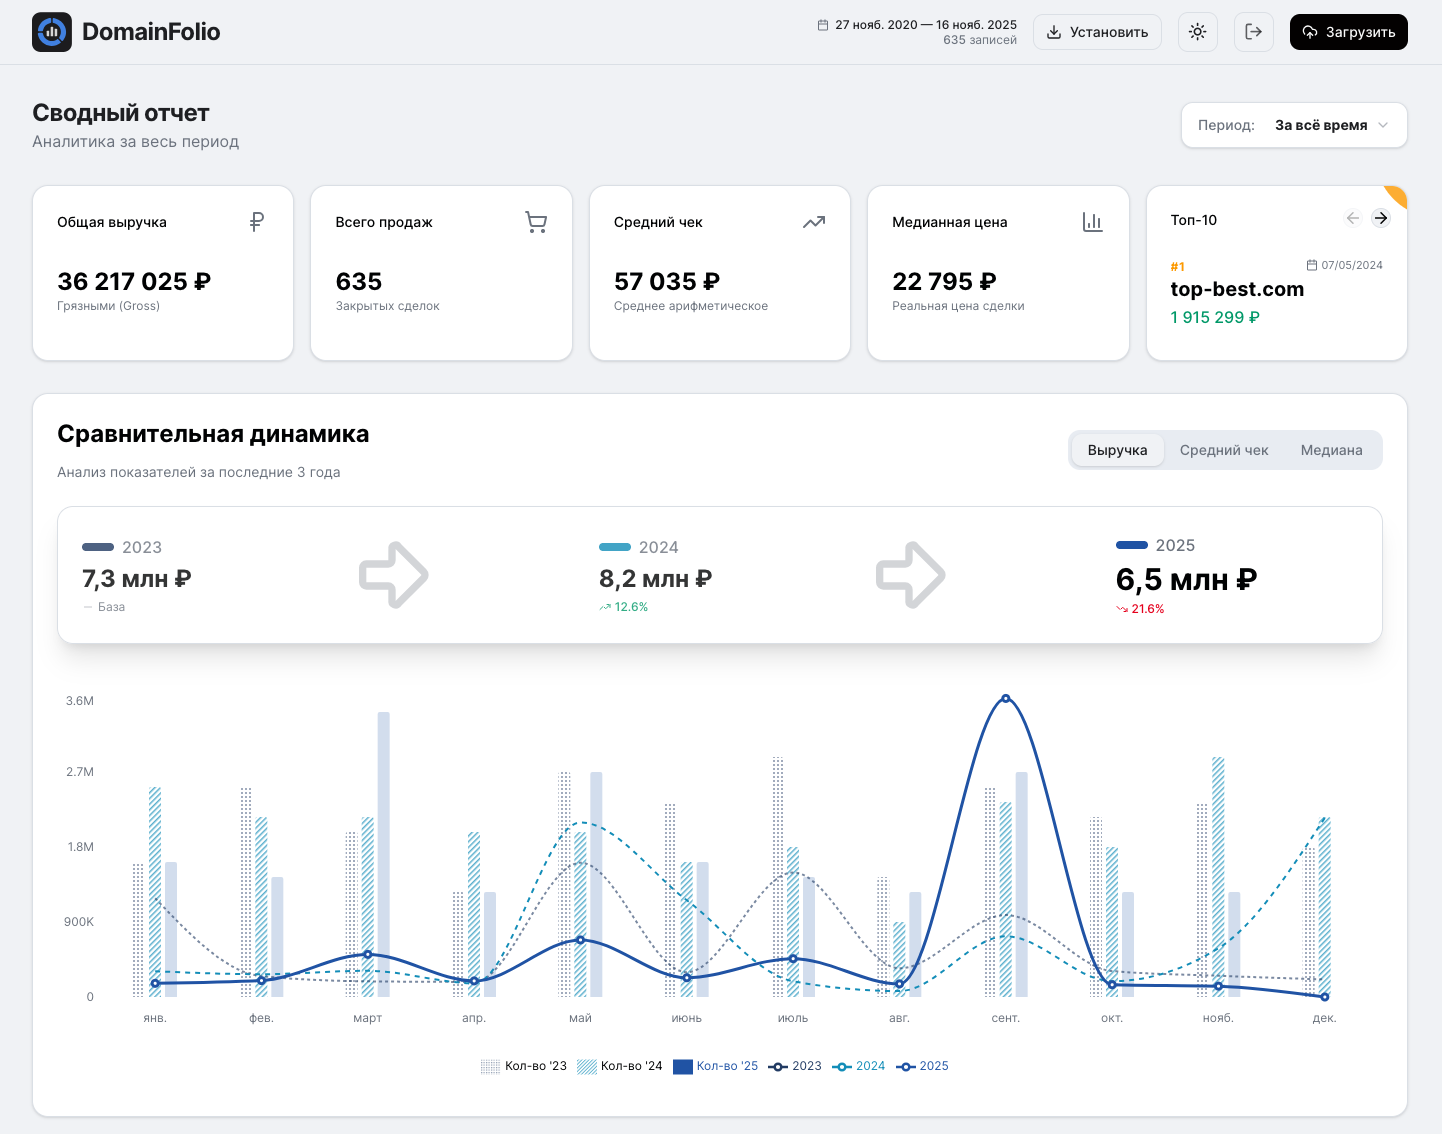
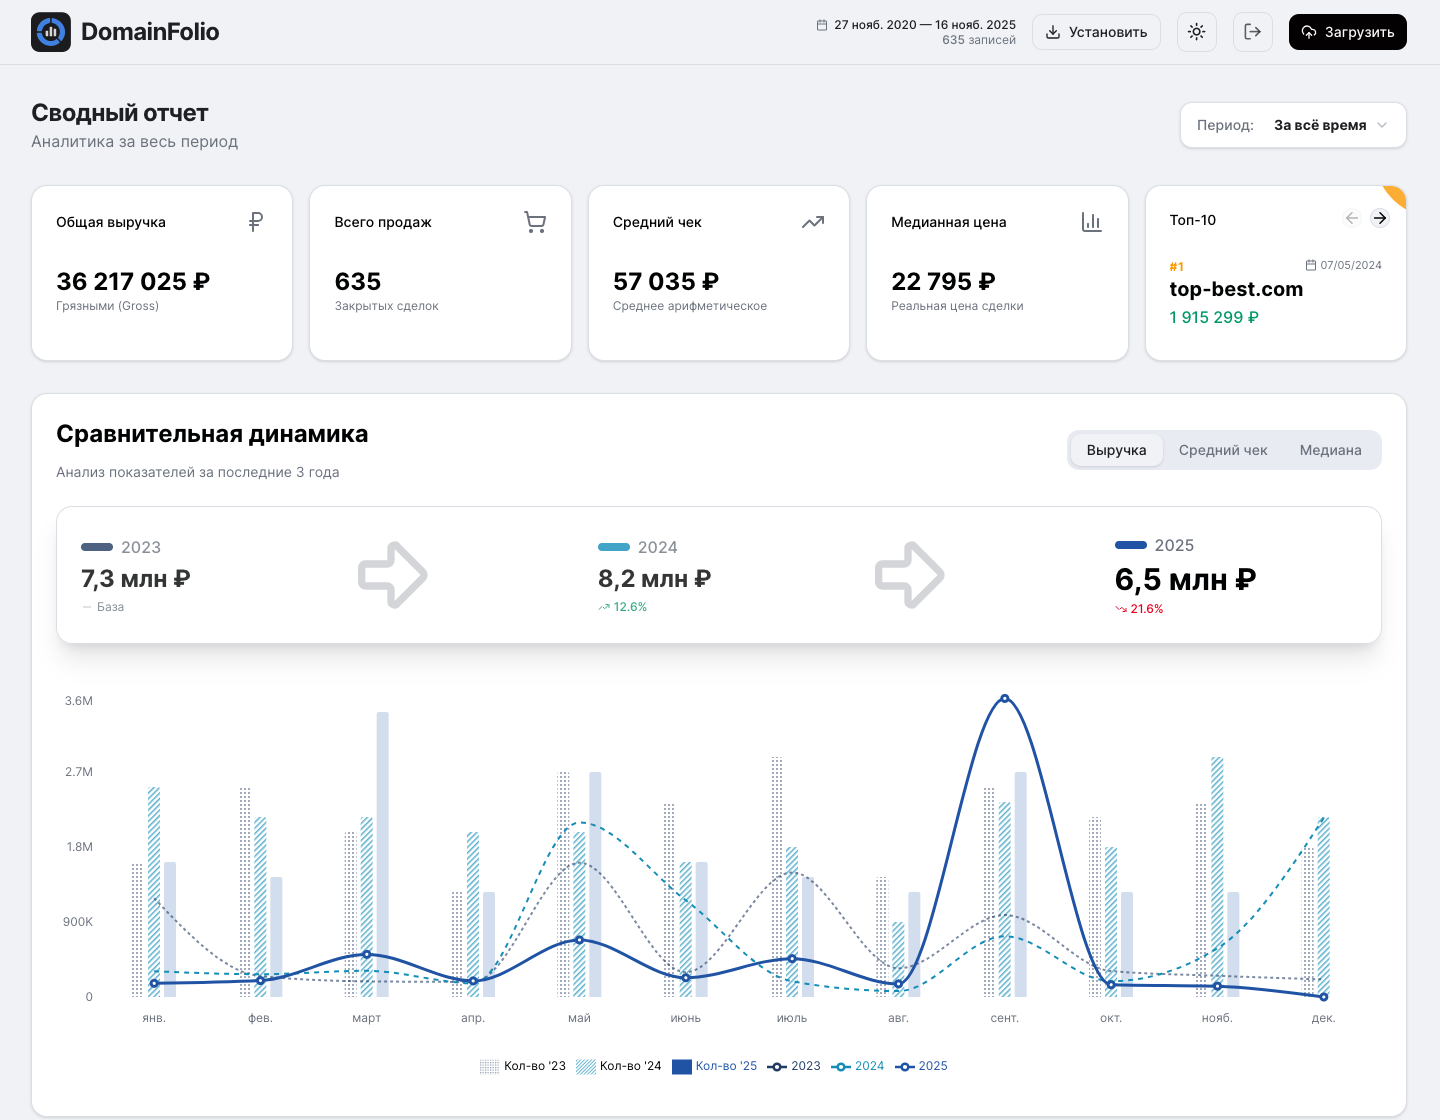
Updates

diff --git a/sw.js b/sw.js
@@ -1,1 +1,1 @@
-if(!self.define){let e,i={};const s=(s,n)=>(s=new URL(s+".js",n).href,i[s]||new Promise(i=>{if("document"in self){const e=document.createElement("script");e.src=s,e.onload=i,document.head.appendChild(e)}else e=s,importScripts(s),i()}).then(()=>{let e=i[s];if(!e)throw new Error(`Module ${s} didn’t register its module`);return e}));self.define=(n,r)=>{const t=e||("document"in self?document.currentScript.src:"")||location.href;if(i[t])return;let d={};const o=e=>s(e,t),l={module:{uri:t},exports:d,require:o};i[t]=Promise.all(n.map(e=>l[e]||o(e))).then(e=>(r(...e),d))}}define(["./workbox-3105ea8d"],function(e){"use strict";self.skipWaiting(),e.clientsClaim(),e.precacheAndRoute([{url:"registerSW.js",revision:"1872c500de691dce40960bb85481de07"},{url:"index.html",revision:"78348f6dc84111a133f61bd47155a29d"},{url:"assets/index-D_AHpvCI.js",revision:null},{url:"assets/index-CEMJJm86.css",revision:null},{url:"pwa-192x192.png",revision:"413a597d431d7da0a6a8e3923f9362d5"},{url:"pwa-512x512-mask.png",revision:"faebcae47e16541a4d9a32db796c7542"},{url:"pwa-512x512.png",revision:"19b264d6b0643e1af9dcc97e4a56a93b"},{url:"manifest.webmanifest",revision:"ae7fa2ebfa52d1366cfc127eb6858913"}],{}),e.cleanupOutdatedCaches(),e.registerRoute(new e.NavigationRoute(e.createHandlerBoundToURL("index.html")))});
+if(!self.define){let e,i={};const s=(s,n)=>(s=new URL(s+".js",n).href,i[s]||new Promise(i=>{if("document"in self){const e=document.createElement("script");e.src=s,e.onload=i,document.head.appendChild(e)}else e=s,importScripts(s),i()}).then(()=>{let e=i[s];if(!e)throw new Error(`Module ${s} didn’t register its module`);return e}));self.define=(n,r)=>{const t=e||("document"in self?document.currentScript.src:"")||location.href;if(i[t])return;let d={};const o=e=>s(e,t),a={module:{uri:t},exports:d,require:o};i[t]=Promise.all(n.map(e=>a[e]||o(e))).then(e=>(r(...e),d))}}define(["./workbox-3105ea8d"],function(e){"use strict";self.skipWaiting(),e.clientsClaim(),e.precacheAndRoute([{url:"registerSW.js",revision:"1872c500de691dce40960bb85481de07"},{url:"index.html",revision:"78348f6dc84111a133f61bd47155a29d"},{url:"assets/index-D_AHpvCI.js",revision:null},{url:"assets/index-CEMJJm86.css",revision:null},{url:"pwa-192x192.png",revision:"413a597d431d7da0a6a8e3923f9362d5"},{url:"pwa-512x512-mask.png",revision:"faebcae47e16541a4d9a32db796c7542"},{url:"pwa-512x512.png",revision:"19b264d6b0643e1af9dcc97e4a56a93b"},{url:"manifest.webmanifest",revision:"39b8da16075e69569c322da3b6aaa0fa"}],{}),e.cleanupOutdatedCaches(),e.registerRoute(new e.NavigationRoute(e.createHandlerBoundToURL("index.html")))});
